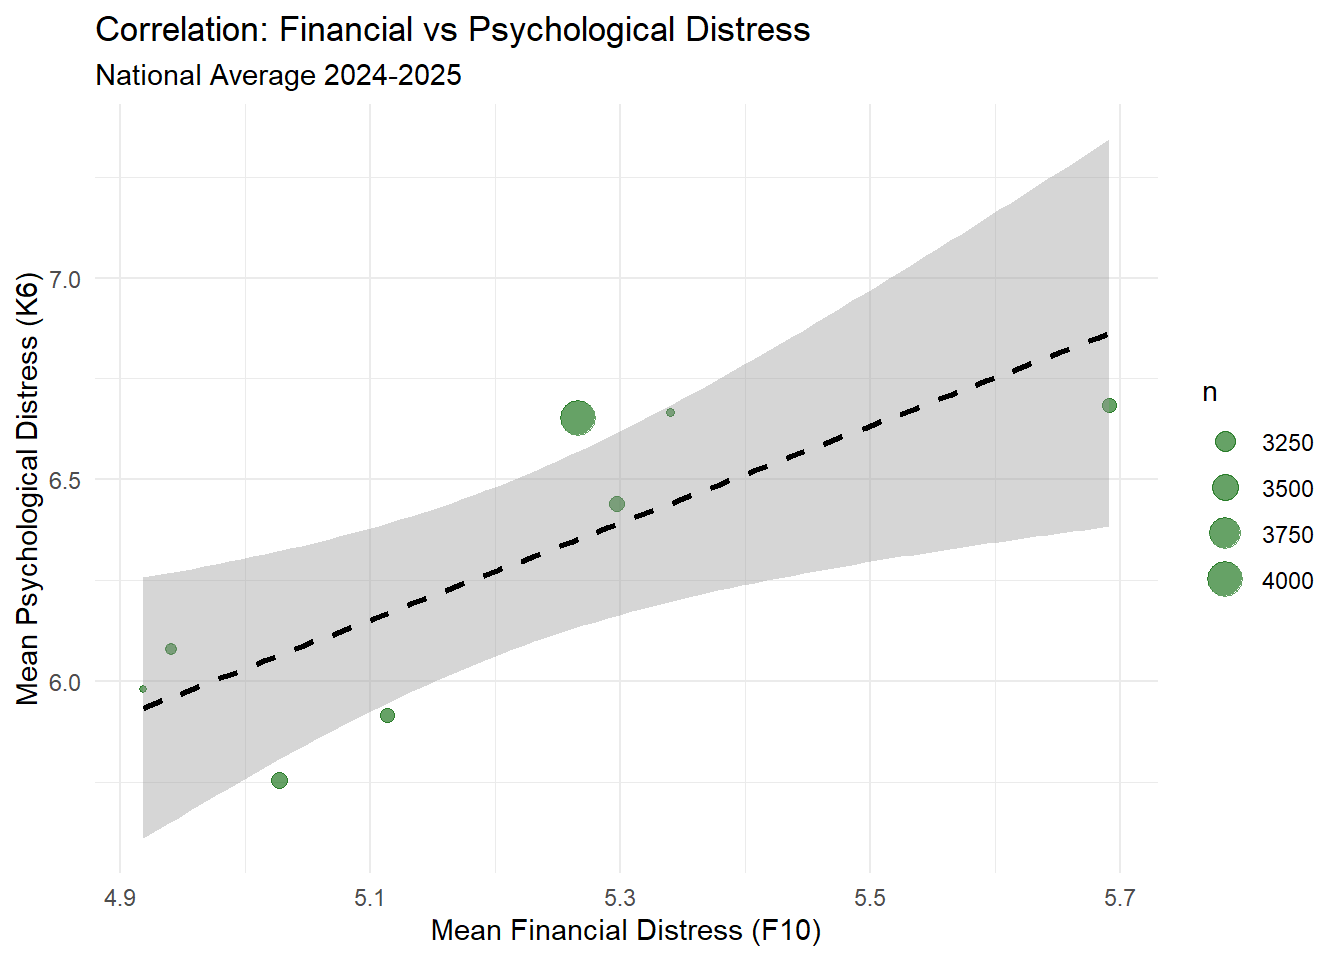
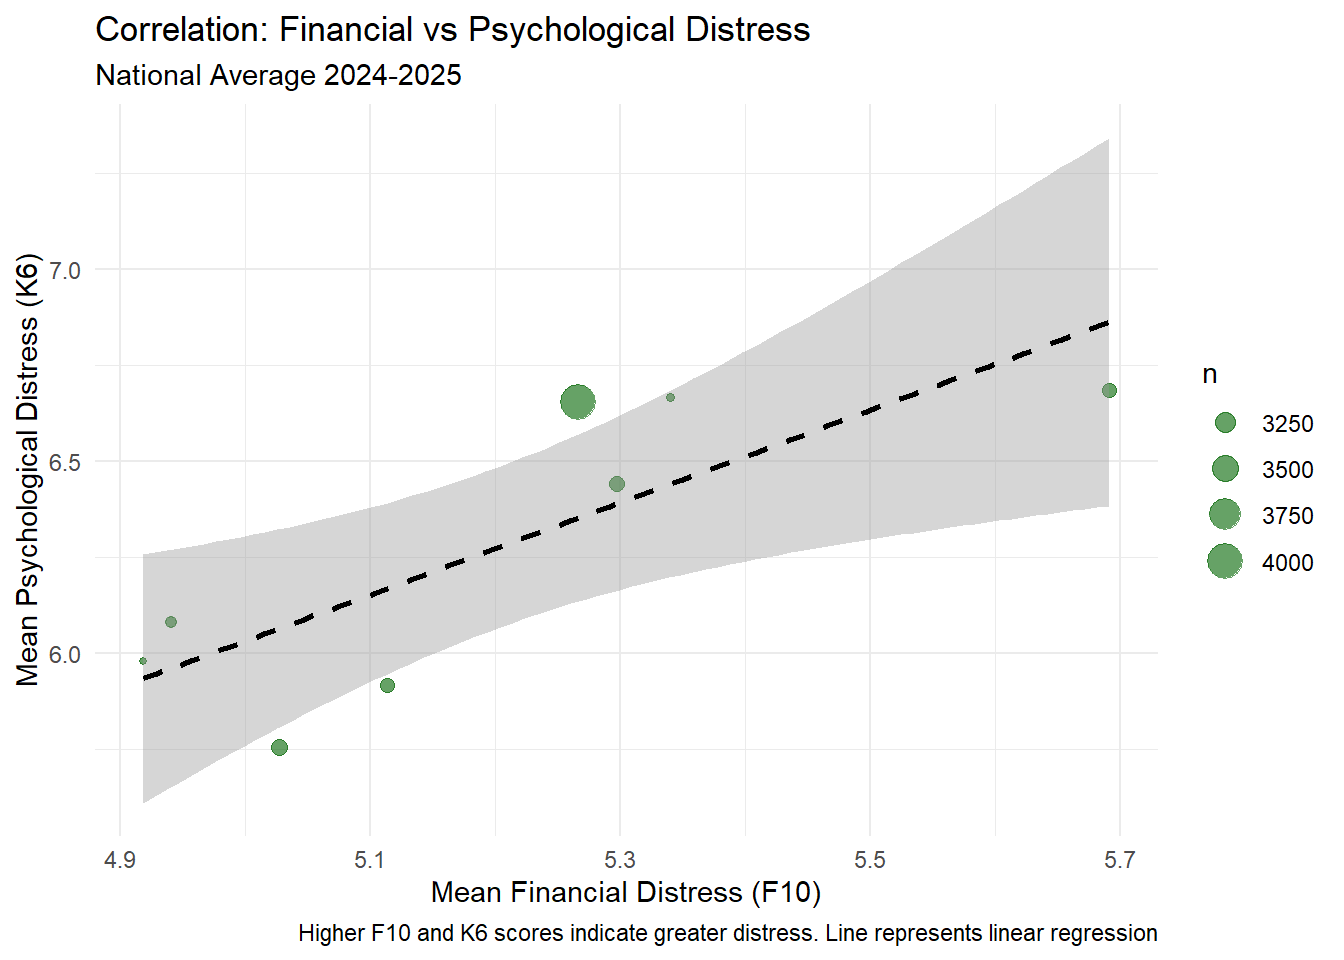
Added age bracket and organisation size with RBA interest rate

diff --git a/phase2.html b/phase2.html
@@ -384,10 +384,11 @@ sample estimates:
 <span id="cb15-15"><a href="#cb15-15" aria-hidden="true" tabindex="-1"></a>    <span class="at">subtitle =</span> <span class="st">"LCI scaled by factor of 20 for visual comparison"</span>,</span>
 <span id="cb15-16"><a href="#cb15-16" aria-hidden="true" tabindex="-1"></a>    <span class="at">x =</span> <span class="st">"Quarter"</span>,</span>
 <span id="cb15-17"><a href="#cb15-17" aria-hidden="true" tabindex="-1"></a>    <span class="at">y =</span> <span class="st">"Score / Scaled Index"</span>,</span>
-<span id="cb15-18"><a href="#cb15-18" aria-hidden="true" tabindex="-1"></a>    <span class="at">colour =</span> <span class="st">""</span></span>
-<span id="cb15-19"><a href="#cb15-19" aria-hidden="true" tabindex="-1"></a>  ) <span class="sc">+</span></span>
-<span id="cb15-20"><a href="#cb15-20" aria-hidden="true" tabindex="-1"></a>  <span class="fu">theme_minimal</span>() <span class="sc">+</span></span>
-<span id="cb15-21"><a href="#cb15-21" aria-hidden="true" tabindex="-1"></a>  <span class="fu">theme</span>(<span class="at">axis.text.x =</span> <span class="fu">element_text</span>(<span class="at">angle =</span> <span class="dv">90</span>, <span class="at">vjust =</span> <span class="fl">0.5</span>, <span class="at">hjust =</span> <span class="dv">1</span>))</span></code></pre></div><button title="Copy to Clipboard" class="code-copy-button"><i class="bi"></i></button></div>
+<span id="cb15-18"><a href="#cb15-18" aria-hidden="true" tabindex="-1"></a>    <span class="at">colour =</span> <span class="st">""</span>,</span>
+<span id="cb15-19"><a href="#cb15-19" aria-hidden="true" tabindex="-1"></a>    <span class="at">caption =</span> <span class="st">"Higher F10 scores indicate greater financial distress."</span></span>
+<span id="cb15-20"><a href="#cb15-20" aria-hidden="true" tabindex="-1"></a>  ) <span class="sc">+</span></span>
+<span id="cb15-21"><a href="#cb15-21" aria-hidden="true" tabindex="-1"></a>  <span class="fu">theme_minimal</span>() <span class="sc">+</span></span>
+<span id="cb15-22"><a href="#cb15-22" aria-hidden="true" tabindex="-1"></a>  <span class="fu">theme</span>(<span class="at">axis.text.x =</span> <span class="fu">element_text</span>(<span class="at">angle =</span> <span class="dv">90</span>, <span class="at">vjust =</span> <span class="fl">0.5</span>, <span class="at">hjust =</span> <span class="dv">1</span>))</span></code></pre></div><button title="Copy to Clipboard" class="code-copy-button"><i class="bi"></i></button></div>
 </details>
 <div class="cell-output-display">
 <div>
@@ -533,9 +534,10 @@ sample estimates:
 <span id="cb24-5"><a href="#cb24-5" aria-hidden="true" tabindex="-1"></a>    <span class="at">title =</span> <span class="st">"Correlation: Financial vs Psychological Distress"</span>,</span>
 <span id="cb24-6"><a href="#cb24-6" aria-hidden="true" tabindex="-1"></a>    <span class="at">subtitle =</span> <span class="st">"National Average 2024-2025"</span>,</span>
 <span id="cb24-7"><a href="#cb24-7" aria-hidden="true" tabindex="-1"></a>    <span class="at">x =</span> <span class="st">"Mean Financial Distress (F10)"</span>,</span>
-<span id="cb24-8"><a href="#cb24-8" aria-hidden="true" tabindex="-1"></a>    <span class="at">y =</span> <span class="st">"Mean Psychological Distress (K6)"</span></span>
-<span id="cb24-9"><a href="#cb24-9" aria-hidden="true" tabindex="-1"></a>  ) <span class="sc">+</span></span>
-<span id="cb24-10"><a href="#cb24-10" aria-hidden="true" tabindex="-1"></a>  <span class="fu">theme_minimal</span>()</span></code></pre></div><button title="Copy to Clipboard" class="code-copy-button"><i class="bi"></i></button></div>
+<span id="cb24-8"><a href="#cb24-8" aria-hidden="true" tabindex="-1"></a>    <span class="at">y =</span> <span class="st">"Mean Psychological Distress (K6)"</span>,</span>
+<span id="cb24-9"><a href="#cb24-9" aria-hidden="true" tabindex="-1"></a>    <span class="at">caption =</span> <span class="st">"Higher F10 and K6 scores indicate greater distress. Line represents linear regression"</span></span>
+<span id="cb24-10"><a href="#cb24-10" aria-hidden="true" tabindex="-1"></a>  ) <span class="sc">+</span></span>
+<span id="cb24-11"><a href="#cb24-11" aria-hidden="true" tabindex="-1"></a>  <span class="fu">theme_minimal</span>()</span></code></pre></div><button title="Copy to Clipboard" class="code-copy-button"><i class="bi"></i></button></div>
 </details>
 <div class="cell-output cell-output-stderr">
 <pre><code>`geom_smooth()` using formula = 'y ~ x'</code></pre>
@@ -771,6 +773,104 @@ sample estimates:
 </div>
 </div>
 <p>The analysis reveals a strong positive directional trend. While the cost of living (ABS) showed a complex, adaptive relationship with workers, the RBA interest rates shows a much more direct impact. We found a strong 0.62 correlation, suggesting that the cost of debt is perhaps a more immediate driver of workforce anxiety than the general rise in grocery or utility prices.</p>
+<div class="cell">
+<details class="code-fold">
+<summary>Code</summary>
+<div class="code-copy-outer-scaffold"><div class="sourceCode cell-code" id="cb37"><pre class="sourceCode r code-with-copy"><code class="sourceCode r"><span id="cb37-1"><a href="#cb37-1" aria-hidden="true" tabindex="-1"></a><span class="fu">library</span>(dplyr)</span>
+<span id="cb37-2"><a href="#cb37-2" aria-hidden="true" tabindex="-1"></a><span class="co"># Merge age summary with RBA rates</span></span>
+<span id="cb37-3"><a href="#cb37-3" aria-hidden="true" tabindex="-1"></a>age_rba_analysis <span class="ot">&lt;-</span> age_summary <span class="sc">|&gt;</span></span>
+<span id="cb37-4"><a href="#cb37-4" aria-hidden="true" tabindex="-1"></a>  <span class="fu">left_join</span>(rba_rates, <span class="at">by =</span> <span class="st">"quarter"</span>)</span>
+<span id="cb37-5"><a href="#cb37-5" aria-hidden="true" tabindex="-1"></a></span>
+<span id="cb37-6"><a href="#cb37-6" aria-hidden="true" tabindex="-1"></a><span class="co"># Quick check to ensure cash_rate is present</span></span>
+<span id="cb37-7"><a href="#cb37-7" aria-hidden="true" tabindex="-1"></a><span class="fu">head</span>(age_rba_analysis)</span></code></pre></div><button title="Copy to Clipboard" class="code-copy-button"><i class="bi"></i></button></div>
+</details>
+<div class="cell-output cell-output-stdout">
+<pre><code># A tibble: 6 × 5
+  quarter age_group      mean_f10     n cash_rate
+  &lt;chr&gt;   &lt;fct&gt;             &lt;dbl&gt; &lt;int&gt;     &lt;dbl&gt;
+1 2024 Q1 18 to 24 years     5.82   254      4.35
+2 2024 Q1 25 to 34 years     5.71   572      4.35
+3 2024 Q1 35 to 44 years     5.42   812      4.35
+4 2024 Q1 45 to 54 years     4.92   736      4.35
+5 2024 Q1 55 to 64 years     4.30   545      4.35
+6 2024 Q1 65+ years          4.09   178      4.35</code></pre>
+</div>
+</div>
+<div class="cell">
+<details class="code-fold">
+<summary>Code</summary>
+<div class="code-copy-outer-scaffold"><div class="sourceCode cell-code" id="cb39"><pre class="sourceCode r code-with-copy"><code class="sourceCode r"><span id="cb39-1"><a href="#cb39-1" aria-hidden="true" tabindex="-1"></a><span class="fu">ggplot</span>(age_rba_analysis, <span class="fu">aes</span>(<span class="at">x =</span> quarter, <span class="at">group =</span> age_group)) <span class="sc">+</span></span>
+<span id="cb39-2"><a href="#cb39-2" aria-hidden="true" tabindex="-1"></a>  <span class="co"># 1. Financial Distress by Age (Blue Line)</span></span>
+<span id="cb39-3"><a href="#cb39-3" aria-hidden="true" tabindex="-1"></a>  <span class="fu">geom_line</span>(<span class="fu">aes</span>(<span class="at">y =</span> mean_f10, <span class="at">color =</span> <span class="st">"Financial Distress"</span>), <span class="at">linewidth =</span> <span class="fl">1.1</span>) <span class="sc">+</span></span>
+<span id="cb39-4"><a href="#cb39-4" aria-hidden="true" tabindex="-1"></a>  <span class="fu">geom_point</span>(<span class="fu">aes</span>(<span class="at">y =</span> mean_f10, <span class="at">color =</span> <span class="st">"Financial Distress"</span>), <span class="at">size =</span> <span class="dv">2</span>) <span class="sc">+</span></span>
+<span id="cb39-5"><a href="#cb39-5" aria-hidden="true" tabindex="-1"></a>  </span>
+<span id="cb39-6"><a href="#cb39-6" aria-hidden="true" tabindex="-1"></a>  <span class="co"># 2. RBA Cash Rate Benchmark (Orange Dashed Line)</span></span>
+<span id="cb39-7"><a href="#cb39-7" aria-hidden="true" tabindex="-1"></a>  <span class="fu">geom_line</span>(<span class="fu">aes</span>(<span class="at">y =</span> cash_rate, <span class="at">color =</span> <span class="st">"RBA Cash Rate (%)"</span>), </span>
+<span id="cb39-8"><a href="#cb39-8" aria-hidden="true" tabindex="-1"></a>            <span class="at">linewidth =</span> <span class="dv">1</span>, <span class="at">linetype =</span> <span class="st">"dashed"</span>) <span class="sc">+</span></span>
+<span id="cb39-9"><a href="#cb39-9" aria-hidden="true" tabindex="-1"></a>  </span>
+<span id="cb39-10"><a href="#cb39-10" aria-hidden="true" tabindex="-1"></a>  <span class="fu">facet_wrap</span>(<span class="sc">~</span>age_group) <span class="sc">+</span></span>
+<span id="cb39-11"><a href="#cb39-11" aria-hidden="true" tabindex="-1"></a>  </span>
+<span id="cb39-12"><a href="#cb39-12" aria-hidden="true" tabindex="-1"></a>  <span class="co"># 3. Colors and Labels</span></span>
+<span id="cb39-13"><a href="#cb39-13" aria-hidden="true" tabindex="-1"></a>  <span class="fu">scale_color_manual</span>(<span class="at">values =</span> <span class="fu">c</span>(<span class="st">"Financial Distress"</span> <span class="ot">=</span> <span class="st">"blue"</span>, </span>
+<span id="cb39-14"><a href="#cb39-14" aria-hidden="true" tabindex="-1"></a>                                 <span class="st">"RBA Cash Rate (%)"</span> <span class="ot">=</span> <span class="st">"orange"</span>)) <span class="sc">+</span></span>
+<span id="cb39-15"><a href="#cb39-15" aria-hidden="true" tabindex="-1"></a>  <span class="fu">labs</span>(</span>
+<span id="cb39-16"><a href="#cb39-16" aria-hidden="true" tabindex="-1"></a>    <span class="at">title =</span> <span class="st">"Age-Based Financial Distress vs. RBA Interest Rates"</span>,</span>
+<span id="cb39-17"><a href="#cb39-17" aria-hidden="true" tabindex="-1"></a>    <span class="at">subtitle =</span> <span class="st">"Comparing generational sentiment against the national cost of debt"</span>,</span>
+<span id="cb39-18"><a href="#cb39-18" aria-hidden="true" tabindex="-1"></a>    <span class="at">x =</span> <span class="st">"Quarter"</span>,</span>
+<span id="cb39-19"><a href="#cb39-19" aria-hidden="true" tabindex="-1"></a>    <span class="at">y =</span> <span class="st">"Score / Percentage"</span>,</span>
+<span id="cb39-20"><a href="#cb39-20" aria-hidden="true" tabindex="-1"></a>    <span class="at">color =</span> <span class="st">"Indicator"</span>,</span>
+<span id="cb39-21"><a href="#cb39-21" aria-hidden="true" tabindex="-1"></a>    <span class="at">caption =</span> <span class="st">"Note. F10 (Distress) and RBA (%) are raw scores. Data: ITW &amp; RBA (2024-2025)."</span></span>
+<span id="cb39-22"><a href="#cb39-22" aria-hidden="true" tabindex="-1"></a>  ) <span class="sc">+</span></span>
+<span id="cb39-23"><a href="#cb39-23" aria-hidden="true" tabindex="-1"></a>  <span class="fu">theme_minimal</span>() <span class="sc">+</span></span>
+<span id="cb39-24"><a href="#cb39-24" aria-hidden="true" tabindex="-1"></a>  <span class="fu">theme</span>(</span>
+<span id="cb39-25"><a href="#cb39-25" aria-hidden="true" tabindex="-1"></a>    <span class="at">axis.text.x =</span> <span class="fu">element_text</span>(<span class="at">angle =</span> <span class="dv">90</span>, <span class="at">vjust =</span> <span class="fl">0.5</span>, <span class="at">hjust =</span> <span class="dv">1</span>),</span>
+<span id="cb39-26"><a href="#cb39-26" aria-hidden="true" tabindex="-1"></a>    <span class="at">legend.position =</span> <span class="st">"bottom"</span>,</span>
+<span id="cb39-27"><a href="#cb39-27" aria-hidden="true" tabindex="-1"></a>    <span class="at">strip.text =</span> <span class="fu">element_text</span>(<span class="at">face =</span> <span class="st">"bold"</span>) <span class="co"># Makes age group titles pop</span></span>
+<span id="cb39-28"><a href="#cb39-28" aria-hidden="true" tabindex="-1"></a>  )</span></code></pre></div><button title="Copy to Clipboard" class="code-copy-button"><i class="bi"></i></button></div>
+</details>
+<div class="cell-output-display">
+<div>
+<figure class="figure">
+<p><img src="phase2_files/figure-html/unnamed-chunk-21-1.png" class="img-fluid figure-img" width="672"></p>
+</figure>
+</div>
+</div>
+</div>
+<div class="cell">
+<details class="code-fold">
+<summary>Code</summary>
+<div class="code-copy-outer-scaffold"><div class="sourceCode cell-code" id="cb40"><pre class="sourceCode r code-with-copy"><code class="sourceCode r"><span id="cb40-1"><a href="#cb40-1" aria-hidden="true" tabindex="-1"></a><span class="co"># 1. Create the Org Size summary</span></span>
+<span id="cb40-2"><a href="#cb40-2" aria-hidden="true" tabindex="-1"></a>org_summary <span class="ot">&lt;-</span> itw_all <span class="sc">|&gt;</span></span>
+<span id="cb40-3"><a href="#cb40-3" aria-hidden="true" tabindex="-1"></a>  <span class="fu">filter</span>(<span class="sc">!</span><span class="fu">is.na</span>(a5)) <span class="sc">|&gt;</span></span>
+<span id="cb40-4"><a href="#cb40-4" aria-hidden="true" tabindex="-1"></a>  <span class="fu">mutate</span>(<span class="at">org_size =</span> <span class="fu">as_factor</span>(a5)) <span class="sc">|&gt;</span> <span class="co"># Ensure a5 is a readable factor</span></span>
+<span id="cb40-5"><a href="#cb40-5" aria-hidden="true" tabindex="-1"></a>  <span class="fu">group_by</span>(quarter, org_size) <span class="sc">|&gt;</span></span>
+<span id="cb40-6"><a href="#cb40-6" aria-hidden="true" tabindex="-1"></a>  <span class="fu">summarise</span>(<span class="at">mean_f10 =</span> <span class="fu">mean</span>(f10_1, <span class="at">na.rm =</span> <span class="cn">TRUE</span>), <span class="at">.groups =</span> <span class="st">"drop"</span>)</span>
+<span id="cb40-7"><a href="#cb40-7" aria-hidden="true" tabindex="-1"></a></span>
+<span id="cb40-8"><a href="#cb40-8" aria-hidden="true" tabindex="-1"></a><span class="co"># 2. Join with RBA rates</span></span>
+<span id="cb40-9"><a href="#cb40-9" aria-hidden="true" tabindex="-1"></a>org_rba_analysis <span class="ot">&lt;-</span> org_summary <span class="sc">|&gt;</span></span>
+<span id="cb40-10"><a href="#cb40-10" aria-hidden="true" tabindex="-1"></a>  <span class="fu">left_join</span>(rba_rates, <span class="at">by =</span> <span class="st">"quarter"</span>)</span>
+<span id="cb40-11"><a href="#cb40-11" aria-hidden="true" tabindex="-1"></a></span>
+<span id="cb40-12"><a href="#cb40-12" aria-hidden="true" tabindex="-1"></a><span class="co"># 3. Plot it</span></span>
+<span id="cb40-13"><a href="#cb40-13" aria-hidden="true" tabindex="-1"></a><span class="fu">ggplot</span>(org_rba_analysis, <span class="fu">aes</span>(<span class="at">x =</span> quarter, <span class="at">group =</span> org_size)) <span class="sc">+</span></span>
+<span id="cb40-14"><a href="#cb40-14" aria-hidden="true" tabindex="-1"></a>  <span class="fu">geom_line</span>(<span class="fu">aes</span>(<span class="at">y =</span> mean_f10, <span class="at">color =</span> <span class="st">"Financial Distress"</span>), <span class="at">linewidth =</span> <span class="fl">1.1</span>) <span class="sc">+</span></span>
+<span id="cb40-15"><a href="#cb40-15" aria-hidden="true" tabindex="-1"></a>  <span class="fu">geom_line</span>(<span class="fu">aes</span>(<span class="at">y =</span> cash_rate, <span class="at">color =</span> <span class="st">"RBA Cash Rate (%)"</span>), <span class="at">linetype =</span> <span class="st">"dashed"</span>) <span class="sc">+</span></span>
+<span id="cb40-16"><a href="#cb40-16" aria-hidden="true" tabindex="-1"></a>  <span class="fu">facet_wrap</span>(<span class="sc">~</span>org_size) <span class="sc">+</span></span>
+<span id="cb40-17"><a href="#cb40-17" aria-hidden="true" tabindex="-1"></a>  <span class="fu">scale_color_manual</span>(<span class="at">values =</span> <span class="fu">c</span>(<span class="st">"Financial Distress"</span> <span class="ot">=</span> <span class="st">"blue"</span>, <span class="st">"RBA Cash Rate (%)"</span> <span class="ot">=</span> <span class="st">"orange"</span>)) <span class="sc">+</span></span>
+<span id="cb40-18"><a href="#cb40-18" aria-hidden="true" tabindex="-1"></a>  <span class="fu">theme_minimal</span>() <span class="sc">+</span></span>
+<span id="cb40-19"><a href="#cb40-19" aria-hidden="true" tabindex="-1"></a>  <span class="fu">labs</span>(<span class="at">title =</span> <span class="st">"Financial Distress vs. RBA Rates by Org Size"</span>,</span>
+<span id="cb40-20"><a href="#cb40-20" aria-hidden="true" tabindex="-1"></a>       <span class="at">caption =</span> <span class="st">"Note. F10 and RBA are raw scores. Data: ITW &amp; RBA (2024-25)."</span>) <span class="sc">+</span></span>
+<span id="cb40-21"><a href="#cb40-21" aria-hidden="true" tabindex="-1"></a>   <span class="fu">theme</span>(</span>
+<span id="cb40-22"><a href="#cb40-22" aria-hidden="true" tabindex="-1"></a>    <span class="at">axis.text.x =</span> <span class="fu">element_text</span>(<span class="at">angle =</span> <span class="dv">90</span>, <span class="at">vjust =</span> <span class="fl">0.5</span>, <span class="at">hjust =</span> <span class="dv">1</span>)</span>
+<span id="cb40-23"><a href="#cb40-23" aria-hidden="true" tabindex="-1"></a>   )</span></code></pre></div><button title="Copy to Clipboard" class="code-copy-button"><i class="bi"></i></button></div>
+</details>
+<div class="cell-output-display">
+<div>
+<figure class="figure">
+<p><img src="phase2_files/figure-html/unnamed-chunk-22-1.png" class="img-fluid figure-img" width="672"></p>
+</figure>
+</div>
+</div>
+</div>
 </section>
 <section id="conclusion" class="level2">
 <h2 class="anchored" data-anchor-id="conclusion">Conclusion</h2>
@@ -779,6 +879,7 @@ sample estimates:
 <p>Disaggregated analysis reveals meaningful differences across population groups. Younger and working age individuals, particularly those aged 25–44 years, display greater sensitivity to cost of living changes, reflecting their higher exposure to housing costs and financial commitments. In contrast, older age groups show more stable trends, suggesting greater financial resilience. Similarly, differences across occupational groups indicate that financial experiences are not uniform, with some groups exhibiting greater variability in response to economic pressures.</p>
 <p>The analysis of financial stress categories shows that the majority of workers remain in the low stress group, while fluctuations in high financial stress appear to be short term and responsive rather than persistent. Additionally, the strong alignment between financial and psychological distress highlights the close connection between economic conditions and overall wellbeing.</p>
 <p>In summary, the findings suggest that while cost of living pressures and interest rate changes influence financial distress, the Australian workforce demonstrates resilience and adaptability over time. The variation observed across age groups, occupations, and stress levels underscores the importance of targeted, data driven approaches to supporting financial and mental wellbeing in different segments of the workforce.</p>
+<p>age bracket in rba interest organisation size- mapping with interest rates- OrgSize, a5</p>
 </section>
 
 </main>